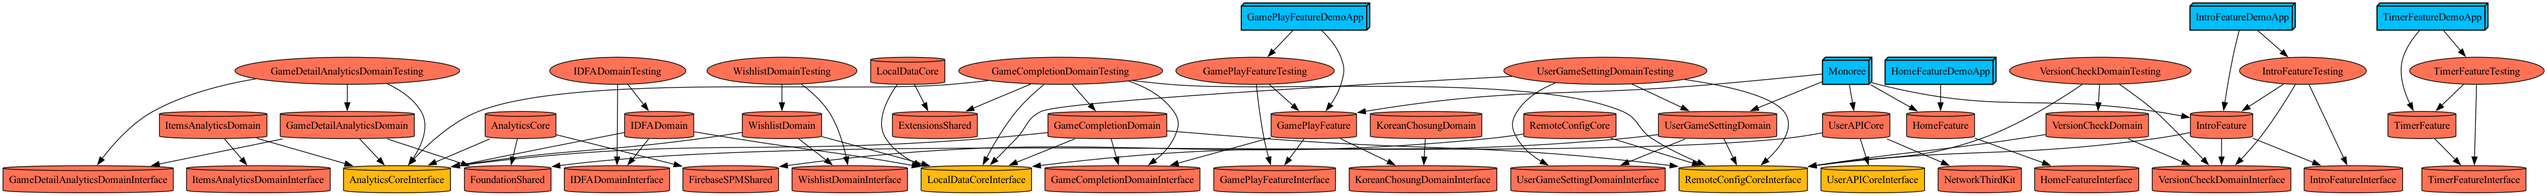
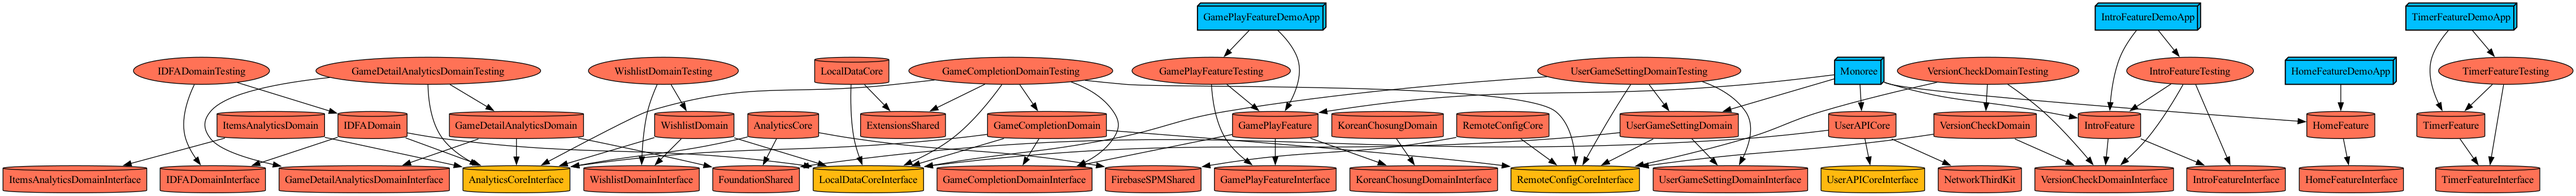
[#87] intro image view gogogo (#92)
* [#87] 리소스 추가

* [#87] 어셋 추가

* [#87] 이미지 생성

* [#87] 삭제

* [#87] 아이콘 추가

* [#87] 인트로 화면 추가

* [#87] 이름 수정

* [#87] 최신버전 사용을 위해 수정

* [#87] version fetch하도록 수정

* [#87] remoteconfig 의존성 제거

* [#87] RemoteConfigCore 의존성 제거

* [#87] 로직 단순화

* [#87] 그래프 정돈

diff --git a/Projects/Feature/IntroFeature/Sources/IntroFeature.swift b/Projects/Feature/IntroFeature/Sources/IntroFeature.swift
@@ -2,7 +2,6 @@ import Foundation
 import UIKit
 import ComposableArchitecture
 import VersionCheckDomainInterface
-import RemoteConfigCoreInterface
 
 @Reducer
 struct IntroFeature {
@@ -10,7 +9,7 @@ struct IntroFeature {
     struct State {
         var backgroundImageURL: String?
         var title: String = "모놀이"
-        var subTitle: String = "가족도, 친구도, 동료도 함께 즐길 수 있는\n모두의 놀이"
+        var subTitle: String = "가족도, 친구도, 동료도 함께 즐기는 모두의 놀이"
         var isShowBanner: Bool = false
         var alert: AlertState<Action>?
     }
@@ -22,15 +21,12 @@ struct IntroFeature {
         case versionCheckResponse(AlertState<Action>?)
     }
     
-    private let remoteConfig: RemoteConfigFetchManager
-    private let versionCheckInteractor: VersionCheckUsecase
+    private let versionCheckUsecase: VersionCheckUsecase
     
     init(
-        remoteConfig: RemoteConfigFetchManager,
-        versionCheckInteractor: VersionCheckUsecase
+        versionCheckUsecase: VersionCheckUsecase
     ) {
-        self.remoteConfig = remoteConfig
-        self.versionCheckInteractor = versionCheckInteractor
+        self.versionCheckUsecase = versionCheckUsecase
     }
     
     var body: some ReducerOf<Self> {
@@ -65,41 +61,36 @@ struct IntroFeature {
     }
     
     private func handleVersionCheck() async -> AlertState<Action>? {
-        do {
-            _ = try await remoteConfig.fetchAndActivate()
-            
-            guard let version = appVersion else { return nil }
-            
-            let type = versionCheckInteractor.checkVersion(version)
-            switch type {
-            case .none:
-                return nil
-            case .optional(let url):
-                return AlertState {
-                    TextState("업데이트가 있습니다")
-                } actions: {
-                    ButtonState(role: .cancel, action: .alertDismissed) {
-                        TextState("나중에")
-                    }
-                    ButtonState(action: .updateAlertConfirmed(url)) {
-                        TextState("업데이트")
-                    }
-                } message: {
-                    TextState("최신 버전으로 업데이트하면 더 안정적으로 이용할 수 있어요.")
-                }
-            case .required(let url):
-                return AlertState {
-                    TextState("업데이트 필요")
-                } actions: {
-                    ButtonState(action: .updateAlertConfirmed(url)) {
-                        TextState("업데이트")
-                    }
-                } message: {
-                    TextState("최신 버전으로 반드시 업데이트해야 앱을 계속 사용할 수 있습니다.")
-                }
-            }
-        } catch {
+        guard let version = appVersion else { return nil }
+        
+        let type = await versionCheckUsecase.checkVersion(version)
+        
+        switch type {
+        case .none:
             return nil
+        case .optional(let url):
+            return AlertState {
+                TextState("업데이트가 있습니다")
+            } actions: {
+                ButtonState(role: .cancel, action: .alertDismissed) {
+                    TextState("나중에")
+                }
+                ButtonState(action: .updateAlertConfirmed(url)) {
+                    TextState("업데이트")
+                }
+            } message: {
+                TextState("최신 버전으로 업데이트하면 더 안정적으로 이용할 수 있어요.")
+            }
+        case .required(let url):
+            return AlertState {
+                TextState("업데이트 필요")
+            } actions: {
+                ButtonState(action: .updateAlertConfirmed(url)) {
+                    TextState("업데이트")
+                }
+            } message: {
+                TextState("최신 버전으로 반드시 업데이트해야 앱을 계속 사용할 수 있습니다.")
+            }
         }
     }
 }

diff --git a/Projects/Feature/IntroFeature/Sources/IntroView.swift b/Projects/Feature/IntroFeature/Sources/IntroView.swift
@@ -1,20 +1,15 @@
 import SwiftUI
 
-struct IntroView: View {
-    var body: some View {
+public struct IntroView: View {
+    public init() {}
+    public var body: some View {
         ZStack {
             VStack {
-                Text("모놀이")
-                    .font(.largeTitle)
-                    .fontWeight(.bold)
-                    .multilineTextAlignment(.center)
-                    .padding(.bottom, 32)
-                
-                Text("가족도, 친구도, 동료도 함께 즐길 수 있는\n모두의 놀이")
-                    .font(.title2)
-                    .fontWeight(.semibold)
-                    .multilineTextAlignment(.center)
-            }
+                Image(asset: IntroFeatureAsset.intro)
+                    .resizable(capInsets: EdgeInsets(top: 16.0, leading: 16.0, bottom: 16.0, trailing: 16.0))
+                    .aspectRatio(contentMode: .fit)
+                    .padding(.all)
+            }            
             VStack {
                 Spacer()
                 Text("광고 영역")

diff --git a/Projects/Domain/VersionCheckDomain/Testing/MockVersionConfigManager.swift b/Projects/Domain/VersionCheckDomain/Testing/MockVersionConfigManager.swift
@@ -11,10 +11,24 @@ enum VersionCheckTestCase {
 }
 
 final class MockVersionConfigManager: VersionConfigManager {
+    
     private var testCase: VersionCheckTestCase = .error
     
     func setup(testCase: VersionCheckTestCase) {
         self.testCase = testCase
+    }
+    
+    func version() throws -> any RemoteConfigCoreInterface.VersionDTO {
+        switch testCase {
+        case .error:
+            throw RemoteConfigError.unknown
+        case .normal(let appStoreUrl, let minVersion, let maxVersion):
+            return MockVersionDTO(
+                appStoreUrl: appStoreUrl,
+                minVersion: minVersion,
+                maxVersion: maxVersion
+            )
+        }
     }
     
     func fetchVersion() throws -> any RemoteConfigCoreInterface.VersionDTO {

diff --git a/Projects/Core/RemoteConfigCore/Sources/RemoteConfigManager+VersionConfig+Extension.swift b/Projects/Core/RemoteConfigCore/Sources/RemoteConfigManager+VersionConfig+Extension.swift
@@ -2,7 +2,16 @@ import Foundation
 import RemoteConfigCoreInterface
 
 extension RemoteConfigManagerImpl: VersionConfigManager {
-    func fetchVersion() throws -> any RemoteConfigCoreInterface.VersionDTO {
+    func version() throws -> any VersionDTO {
+        return try fetchRemoteConfig(
+            VersionDTOImpl.self,
+            key: .version
+        )
+    }
+    
+    func fetchVersion() async throws -> any RemoteConfigCoreInterface.VersionDTO {
+        try await fetchAndActivate()
+        
         return try fetchRemoteConfig(
             VersionDTOImpl.self,
             key: .version

diff --git a/Projects/Domain/VersionCheckDomain/Sources/VersionCheckUsecaseImpl.swift b/Projects/Domain/VersionCheckDomain/Sources/VersionCheckUsecaseImpl.swift
@@ -9,9 +9,9 @@ final class VersionCheckUsecaseImpl: VersionCheckUsecase {
         self.remoteVersionConfig = remoteVersionConfig
     }
     
-    func checkVersion(_ currentVersion: String) -> VersionUpdateResult {
+    func checkVersion(_ currentVersion: String) async -> VersionUpdateResult {
         do {
-            let versionConfig = try remoteVersionConfig.fetchVersion()
+            let versionConfig = try await remoteVersionConfig.fetchVersion()
             
             let cur = SemVer(currentVersion)
             let min = SemVer(versionConfig.minVersion)

diff --git a/Projects/Feature/IntroFeature/Project.swift b/Projects/Feature/IntroFeature/Project.swift
@@ -11,11 +11,10 @@ let project = Project.module(
         ),
         .implementation(
             feature: .IntroFeature,
+            hasResources: true,
             dependencies: [
                 // SPM
                 .SPM.ComposableArchitecture,
-                // Core
-                .core(target: .RemoteConfigCore, type: .interface),
                 // Domain
                 .domain(target: .VersionCheckDomain, type: .interface),
                 // Feature

diff --git a/Projects/Feature/IntroFeature/Demo/Sources/ContentView.swift b/Projects/Feature/IntroFeature/Demo/Sources/ContentView.swift
@@ -1,4 +1,5 @@
 import SwiftUI
+import IntroFeature
 
 @main
 struct DemoApp: App {
@@ -12,9 +13,7 @@ struct DemoApp: App {
 struct ContentView: View {
     var body: some View {
         NavigationStack {
-            Text("Hello, SwiftUI Demo!")
-                .padding()
-                .navigationTitle("Demo")
+            IntroView()
         }
     }
 }

diff --git a/Tuist/ProjectDescriptionHelpers/DeploymentTargets/DeploymentTargets+Template.swift b/Tuist/ProjectDescriptionHelpers/DeploymentTargets/DeploymentTargets+Template.swift
@@ -9,8 +9,8 @@ import ProjectDescription
 
 extension DeploymentTargets {
     /// 모든 프로젝트는 단 하나의 버전을 사용합니다.
-    /// 현재 버전 - 16.0
+    /// 현재 버전 - 17.0
     public static var appVersion: DeploymentTargets {
-        return .iOS("16.0")
+        return .iOS("17.0")
     }
 }

diff --git a/Projects/Core/RemoteConfigCore/Interface/VersionConfigManager.swift b/Projects/Core/RemoteConfigCore/Interface/VersionConfigManager.swift
@@ -1,5 +1,6 @@
 import Foundation
 
 public protocol VersionConfigManager {
-    func fetchVersion() throws -> any VersionDTO
+    func version() throws -> any VersionDTO
+    func fetchVersion() async throws -> any VersionDTO
 }

diff --git a/Projects/Domain/VersionCheckDomain/Interface/VersionCheckUsecase.swift b/Projects/Domain/VersionCheckDomain/Interface/VersionCheckUsecase.swift
@@ -1,5 +1,5 @@
 import Foundation
 
 public protocol VersionCheckUsecase {
-    func checkVersion(_ currentVersion: String) -> VersionUpdateResult
+    func checkVersion(_ currentVersion: String) async -> VersionUpdateResult
 }

diff --git a/Tuist/Package.swift b/Tuist/Package.swift
@@ -15,7 +15,7 @@ let packageSettings = PackageSettings(
 let package = Package(
     name: "Monoree",
     platforms: [
-        .iOS(.v16)
+        .iOS(.v17)
     ],
     dependencies: [
         .package(
